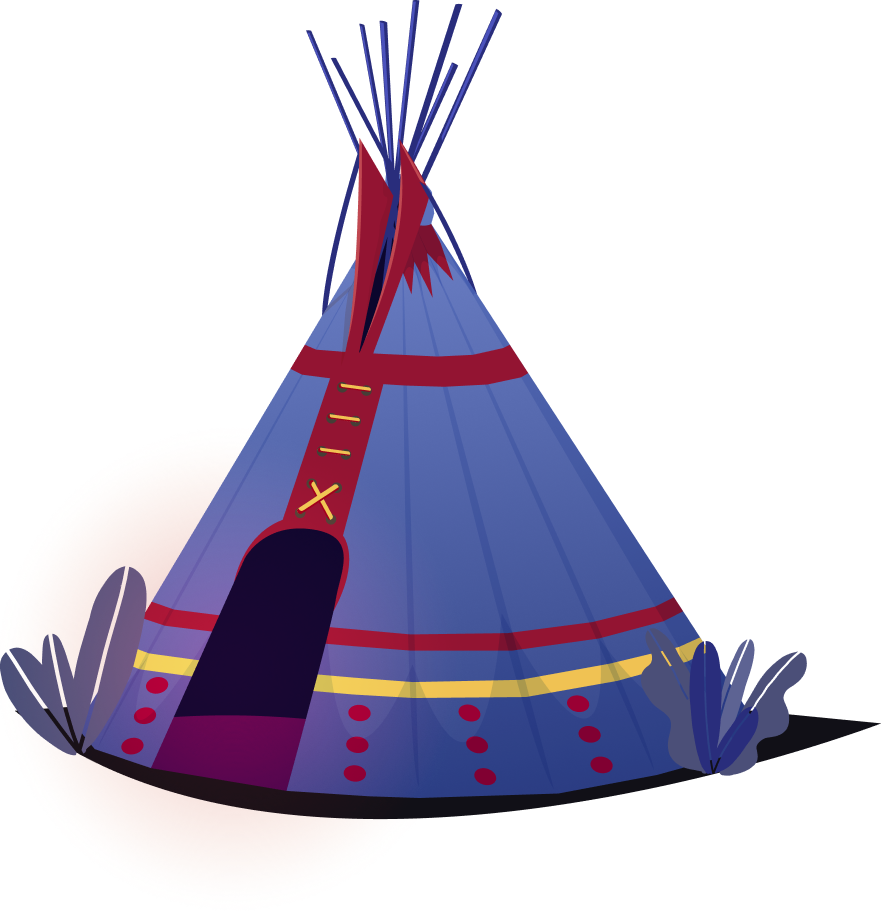
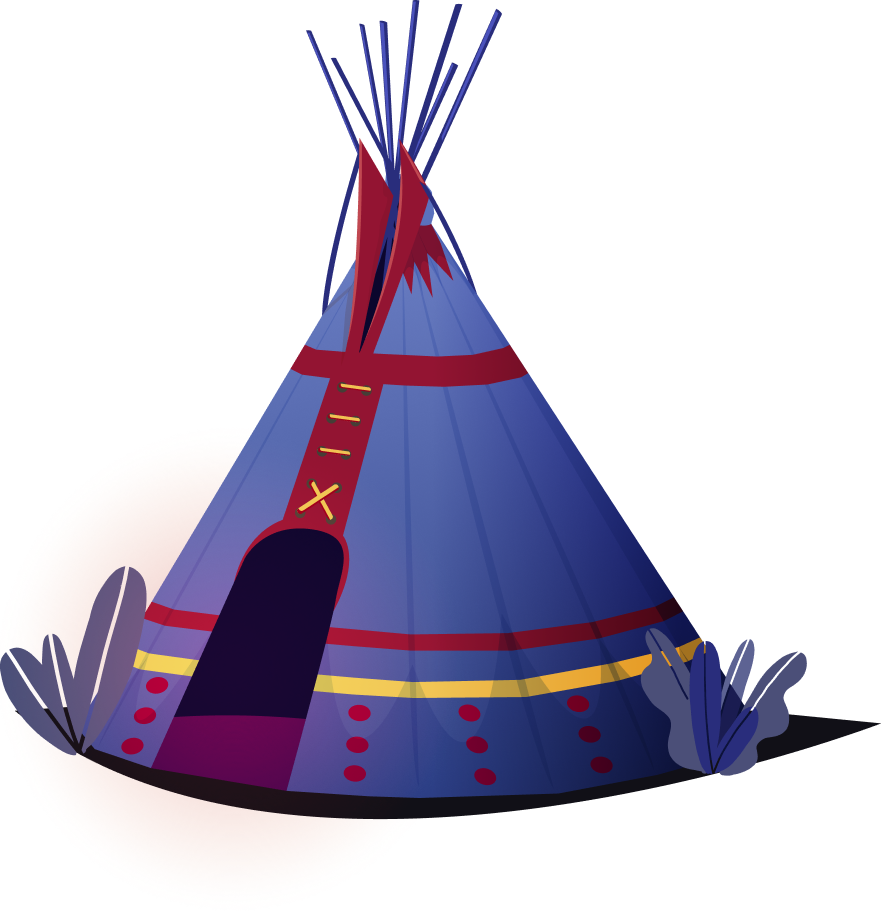
Edited welcome page image

Changed region(s): [[0.5816, 0.3991, 0.7959, 0.8904], [0.7959, 0.7368, 0.8571, 0.8289]]

diff --git a/src/app/components/layouts/BoardingPageLayout.tsx b/src/app/components/layouts/BoardingPageLayout.tsx
@@ -89,13 +89,16 @@ const BoardingPageLayout: FC<BoardingPageLayoutProps> = ({
         <img
           src={WelcomeTreeLeftImage}
           alt="Vigvam"
-          className={classNames("absolute bottom-0 left-0", "h-[83.5%] w-auto")}
+          className={classNames(
+            "absolute bottom-0 left-[5%]",
+            "h-[82%] w-auto"
+          )}
         />
         <img
           src={WelcomeTreeRightImage}
           alt="Vigvam"
           className={classNames(
-            "absolute bottom-0 right-0",
+            "absolute bottom-0 right-[2%] z-[2]",
             "h-[82.6%] w-auto"
           )}
         />
@@ -104,15 +107,15 @@ const BoardingPageLayout: FC<BoardingPageLayoutProps> = ({
           alt="Vigvam"
           className={classNames(
             "absolute bottom-[7.5%] right-[22.7%]",
-            "h-[42.1%] w-auto"
+            "h-[42.22%] w-auto"
           )}
         />
         <img
           src={WelcomeFireImage}
           alt="Vigvam"
           className={classNames(
-            "absolute bottom-[8.5%] right-[42%]",
-            "h-[50.8%] w-auto"
+            "absolute bottom-[4.5%] right-[36%]",
+            "h-[54.5%] w-auto"
           )}
         />
       </>
